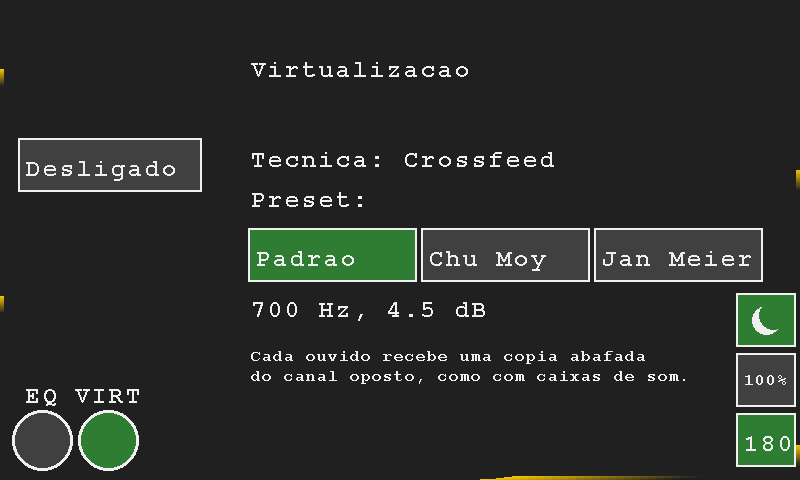
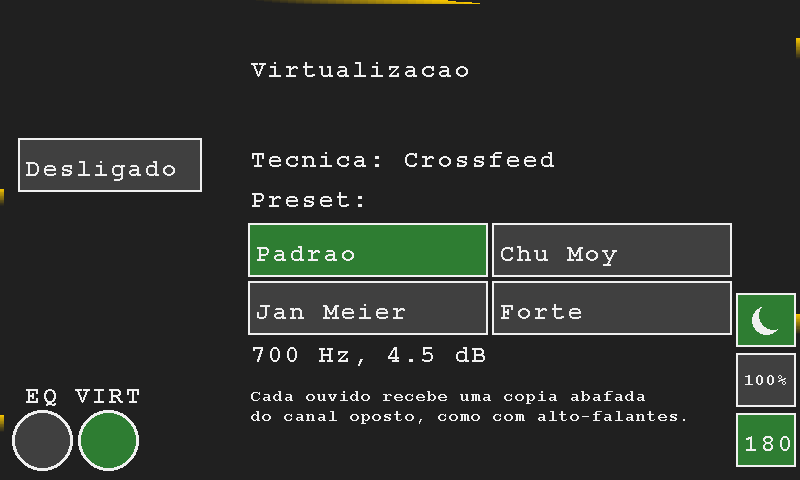
Mostra quatro botões de Preset em grade 2x2 e documenta o Forte
Quatro botões de 165 px não cabem na linha, então a tela passa a ter duas
fileiras de 236 px. O README ganha a linha do Forte (origem e efeito audível
calculados como nas outras) e as capturas da tela. A descrição do Padrão e do
Jan Meier estava invertida: quanto menor o nível, mais os lados se misturam.

diff --git a/Application/Touchscreen/Src/user_lcd.c b/Application/Touchscreen/Src/user_lcd.c
@@ -41,17 +41,19 @@
 #define STEP_BUTTON_GAP    4
 #define GAIN_TEXT_GAP      6
 #define MOON_RADIUS        14
-// The widest name, Jan Meier, is 9 Font24 characters of 17 px plus the 5 px label margin.
-#define PRESET_BUTTON_WIDTH 165
-#define PRESET_BUTTON_GAP   8
-#define MOON_BITE_OFFSET_X  7
-#define MOON_BITE_OFFSET_Y  5
-#define LOGO_INK_BLUE       24
-#define LOGO_YELLOW         0xFFCF00
-#define TRAIL_THICKNESS     4
-#define TRAIL_SEGMENT       8
-#define TRAIL_LENGTH        24
-#define TRAIL_SEGMENTS      (2 * (WVGA_RES_X + WVGA_RES_Y) / TRAIL_SEGMENT)
+// The Preset buttons form a grid two wide from x 250 to 730; the widest name, Jan Meier, needs 158 px of Font24.
+#define PRESET_BUTTON_COLUMNS 2
+#define PRESET_BUTTON_WIDTH   236
+#define PRESET_BUTTON_HEIGHT  50
+#define PRESET_BUTTON_GAP     8
+#define MOON_BITE_OFFSET_X    7
+#define MOON_BITE_OFFSET_Y    5
+#define LOGO_INK_BLUE         24
+#define LOGO_YELLOW           0xFFCF00
+#define TRAIL_THICKNESS       4
+#define TRAIL_SEGMENT         8
+#define TRAIL_LENGTH          24
+#define TRAIL_SEGMENTS        (2 * (WVGA_RES_X + WVGA_RES_Y) / TRAIL_SEGMENT)
 // Font24 leaves its top two rows blank, so the labels' ink starts just under the trail.
 #define EQ_LABEL_Y 2
 
@@ -300,10 +302,10 @@ static void LCD_DisplayVirtualizerPage(void)
   BSP_LCD_DisplayStringAt(250, 190, (uint8_t*)"Preset:", LEFT_MODE);
   for(uint32_t i = 0; i < CROSSFEED_PRESET_COUNT; i++)
   {
-    presetButtons[i].x = 250 + i * (PRESET_BUTTON_WIDTH + PRESET_BUTTON_GAP);
-    presetButtons[i].y = 230;
+    presetButtons[i].x = 250 + (i % PRESET_BUTTON_COLUMNS) * (PRESET_BUTTON_WIDTH + PRESET_BUTTON_GAP);
+    presetButtons[i].y = 225 + (i / PRESET_BUTTON_COLUMNS) * (PRESET_BUTTON_HEIGHT + PRESET_BUTTON_GAP);
     presetButtons[i].width = PRESET_BUTTON_WIDTH;
-    presetButtons[i].height = 50;
+    presetButtons[i].height = PRESET_BUTTON_HEIGHT;
     presetButtons[i].text = (char*)crossfeedPresets[i].name;
     presetButtons[i].isActive = i == crossfeedPreset;
     LCD_UpdateRectangleButton(&presetButtons[i]);
@@ -313,11 +315,11 @@ static void LCD_DisplayVirtualizerPage(void)
   BSP_LCD_SetTextColor(theme->foreground);
   int levelTenths = (int)(preset->levelDb * 10 + 0.5f);
   sprintf(text, "%d Hz, %d.%d dB", (int)preset->cutoffHz, levelTenths / 10, levelTenths % 10);
-  BSP_LCD_DisplayStringAt(250, 300, (uint8_t*)text, LEFT_MODE);
+  BSP_LCD_DisplayStringAt(250, 345, (uint8_t*)text, LEFT_MODE);
 
   BSP_LCD_SetFont(&Font16);
-  BSP_LCD_DisplayStringAt(250, 350, (uint8_t*)"Cada ouvido recebe uma copia abafada", LEFT_MODE);
-  BSP_LCD_DisplayStringAt(250, 370, (uint8_t*)"do canal oposto, como com alto-falantes.", LEFT_MODE);
+  BSP_LCD_DisplayStringAt(250, 390, (uint8_t*)"Cada ouvido recebe uma copia abafada", LEFT_MODE);
+  BSP_LCD_DisplayStringAt(250, 410, (uint8_t*)"do canal oposto, como com alto-falantes.", LEFT_MODE);
   BSP_LCD_SetFont(&Font24);
 }
 

diff --git a/README.md b/README.md
@@ -254,7 +254,7 @@ Os casos de hoje:
 
 Os casos da Virtualização leem a tabela `crossfeedPresets` do próprio DSP e rodam uma vez para cada Preset, com o Equalizador plano:
 
-- Os Presets da tabela têm o corte e o nível publicados, e o primeiro, que uma palavra apagada da flash carrega, é o Padrão.
+- Os Presets da tabela, na ordem em que a flash os indexa, têm o corte e o nível documentados no README, e o primeiro, que uma palavra apagada da flash carrega, é o Padrão.
 - Um sinal mono mede 0 dB ± 0,1 dB em 20 Hz e fica a 1 dB de 0 dB nas 31 frequências de 20 Hz a 20 kHz.
 - Um impulso só na esquerda aparece na direita filtrado por um passa-baixas. Em 20 Hz, o caminho cruzado fica abaixo do direto pelo nível do Preset (± 0,1 dB). Ele cai 3 dB a até 5% do corte e pelo menos 17 dB uma década acima, onde o caminho direto volta a até 1 dB de 0 dB.
 - Ruído estéreo com os canais trocados sai com os canais trocados, bit a bit.
@@ -315,7 +315,7 @@ tools/lint.py tidy
 
 4. **Ligar a Virtualização**:
    - Toque no botão "VIRT", ao lado do "EQ", para abrir a tela da Virtualização. Abrir uma das telas fecha a outra, e tocar de novo no botão aberto volta à tela inicial
-   - A tela mostra a Técnica (Crossfeed) e três botões de Preset: Padrão, Chu Moy e Jan Meier. Exatamente um fica verde, e o corte e o nível dele aparecem abaixo. Tocar em outro troca o Preset no pacote seguinte, com a música tocando e sem transição gradual, e salva a escolha na flash. Uma placa nova começa no Padrão
+   - A tela mostra a Técnica (Crossfeed) e quatro botões de Preset, em duas fileiras: Padrão, Chu Moy, Jan Meier e Forte. Exatamente um fica verde, e o corte e o nível dele aparecem abaixo. Tocar em outro troca o Preset no pacote seguinte, com a música tocando e sem transição gradual, e salva a escolha na flash. Uma placa nova começa no Padrão
    - O botão no alto da coluna da esquerda liga e desliga a Virtualização. Ligada, o som sai de dentro da cabeça e passa a vir da frente; desligada, cada canal sai só no seu lado. A troca leva 1 ms e não faz clique. A escolha é salva na flash no toque, e uma placa nova começa com a Virtualização desligada
 
    | | Ligada | Desligada |
@@ -323,12 +323,12 @@ tools/lint.py tidy
    | Tema claro | ![Virtualização ligada, tema claro, tela girada em 180°](docs/capturas/virt-claro-ligado-180.png) | ![Virtualização desligada, tema claro, tela girada em 180°](docs/capturas/virt-claro-desligado-180.png) |
    | Tema escuro | ![Virtualização ligada, tema escuro, tela girada em 180°](docs/capturas/virt-escuro-ligado-180.png) | ![Virtualização desligada, tema escuro, tela girada em 180°](docs/capturas/virt-escuro-desligado-180.png) |
 
-   Os três Presets, nos dois temas e nas duas orientações da tela (o botão "180" verde indica a tela girada):
+   Os quatro Presets, nos dois temas e nas duas orientações da tela (o botão "180" verde indica a tela girada):
 
    | | Tela normal | Tela girada em 180° |
    |---|---|---|
    | Tema claro | ![Preset Padrão, tema claro](docs/capturas/virt-preset-padrao-claro.png) | ![Preset Chu Moy, tema claro, tela girada em 180°](docs/capturas/virt-preset-chu-moy-claro-180.png) |
-   | Tema escuro | ![Preset Chu Moy, tema escuro](docs/capturas/virt-preset-chu-moy-escuro.png) | ![Preset Jan Meier, tema escuro, tela girada em 180°](docs/capturas/virt-preset-jan-meier-escuro-180.png) |
+   | Tema escuro | ![Preset Jan Meier, tema escuro](docs/capturas/virt-preset-jan-meier-escuro.png) | ![Preset Forte, tema escuro, tela girada em 180°](docs/capturas/virt-preset-forte-escuro-180.png) |
 
    | | Tela inicial |
    | --- | --- |
@@ -360,15 +360,16 @@ O sistema utiliza filtros biquad do tipo "peaking equalizer" para cada banda de 
 
 No fone, cada ouvido escuta só o seu canal, e o som parece vir de dentro da cabeça. Com alto-falantes, cada ouvido escuta também o alto-falante do outro lado, mais baixo nos graves e quase nada nos agudos, porque a cabeça faz sombra para as frequências altas. Benjamin Bauer propôs em 1961 imitar isso no fone com um circuito que leva a cada ouvido uma cópia filtrada do canal oposto. Essa Técnica é o Crossfeed. O bs2b (Bauer stereophonic-to-binaural DSP), de Boris Mikhaylov, é a versão digital mais usada dessa ideia, e a Virtualização segue o seu projeto.
 
-O canal oposto passa por um passa-baixas de primeira ordem no corte do Preset e chega ao ouvido o nível do Preset abaixo do canal direto nos graves. O canal do mesmo lado passa por um realce de agudos de primeira ordem, que devolve aos agudos o volume que o canal cedeu ao lado oposto nos graves. Um Preset é o par de corte e nível. Existem três, os mesmos que o bs2b publica:
+O canal oposto passa por um passa-baixas de primeira ordem no corte do Preset e chega ao ouvido o nível do Preset abaixo do canal direto nos graves. O canal do mesmo lado passa por um realce de agudos de primeira ordem, que devolve aos agudos o volume que o canal cedeu ao lado oposto nos graves. Um Preset é o par de corte e nível. Existem quatro: os três que o bs2b publica e o Forte, escolha deste projeto:
 
 | Preset | Corte | Nível | Origem | Efeito audível |
 |---|---|---|---|---|
-| Padrão | 700 Hz | 4,5 dB | Padrão do bs2b | O mais leve dos três. Um instrumento só na esquerda fica 4,1 dB mais baixo nos graves do ouvido esquerdo e chega ao direito 8,6 dB abaixo do nível original. Tira o som de dentro da cabeça sem mudar muito o palco |
-| Chu Moy | 700 Hz | 6,0 dB | Circuito de crossfeed de Chu Moy para amplificadores de fone, que o bs2b chama de C.Moy | Mesmo corte, com mais graves cruzados: 3,5 dB abaixo do original no ouvido do mesmo lado e 9,5 dB abaixo no oposto. Mistura os lados um pouco mais que o Padrão |
-| Jan Meier | 650 Hz | 9,5 dB | Crossfeed de Jan Meier, dos amplificadores Meier Audio, que o bs2b chama de J.Meier | O de mistura mais forte: 2,5 dB abaixo do original no ouvido do mesmo lado e 12,0 dB no oposto. Os dois ouvidos ficam mais parecidos nos graves, com o corte um pouco mais baixo |
+| Padrão | 700 Hz | 4,5 dB | Padrão do bs2b | O que mais mistura dos três do bs2b. Um instrumento só na esquerda fica 4,1 dB mais baixo nos graves do ouvido esquerdo e chega ao direito 8,6 dB abaixo do nível original. Tira o som de dentro da cabeça sem mudar muito o palco |
+| Chu Moy | 700 Hz | 6,0 dB | Circuito de crossfeed de Chu Moy para amplificadores de fone, que o bs2b chama de C.Moy | Mesmo corte, com menos graves cruzados: 3,5 dB abaixo do original no ouvido do mesmo lado e 9,5 dB abaixo no oposto. Mistura os lados um pouco menos que o Padrão |
+| Jan Meier | 650 Hz | 9,5 dB | Crossfeed de Jan Meier, dos amplificadores Meier Audio, que o bs2b chama de J.Meier | O que menos mistura: 2,5 dB abaixo do original no ouvido do mesmo lado e 12,0 dB no oposto. Os lados ficam mais separados nos graves, com o corte um pouco mais baixo |
+| Forte | 1000 Hz | 3,0 dB | Escolha deste projeto, para tornar o efeito evidente em gravações comuns. Não é um Preset publicado | O que mais mistura dos quatro: 4,6 dB abaixo do original no ouvido do mesmo lado e 7,6 dB no oposto. O corte mais alto leva o canal oposto a uma faixa maior do espectro. Serve para ouvir a diferença; o gosto de cada um decide se fica |
 
-A coluna "Efeito audível" dá, para um instrumento só em um canal, o nível dos graves nos dois ouvidos em relação ao sinal sem a Virtualização. É o que a fórmula abaixo prevê, e o `tools/dsp_test.py` confere o nível e o corte de cada Preset. Como o canal direto e o cruzado somam 1, um sinal mono sai igual nos três Presets em todas as frequências, e trocar de Preset só muda o que difere entre os canais. O gosto de cada um ainda depende de ouvir na placa.
+A coluna "Efeito audível" dá, para um instrumento só em um canal, o nível dos graves nos dois ouvidos em relação ao sinal sem a Virtualização. É o que a fórmula abaixo prevê, e o `tools/dsp_test.py` confere o nível e o corte de cada Preset (o do Forte contra o valor escolhido, já que não há fonte publicada). Como o canal direto e o cruzado somam 1, um sinal mono sai igual nos quatro Presets em todas as frequências, e trocar de Preset só muda o que difere entre os canais. O gosto de cada um ainda depende de ouvir na placa.
 
 O bs2b escolhe o corte e o ganho do realce de agudos por fórmulas próprias e normaliza o volume nos graves. Com essa escolha, um sinal mono sai 1,8 dB mais baixo nos agudos com o Padrão (medido pelo `tools/dsp_test.py` com o bs2b copiado ao pé da letra), e o ADR 0001 pede o mesmo volume mono com o Módulo ligado ou desligado. Por isso a Virtualização usa o mesmo filtro de realce do bs2b com o corte e o ganho do passa-baixas. Assim o realce é o complemento exato do passa-baixas, e o canal direto e o cruzado somam 1 em todas as frequências:
 
